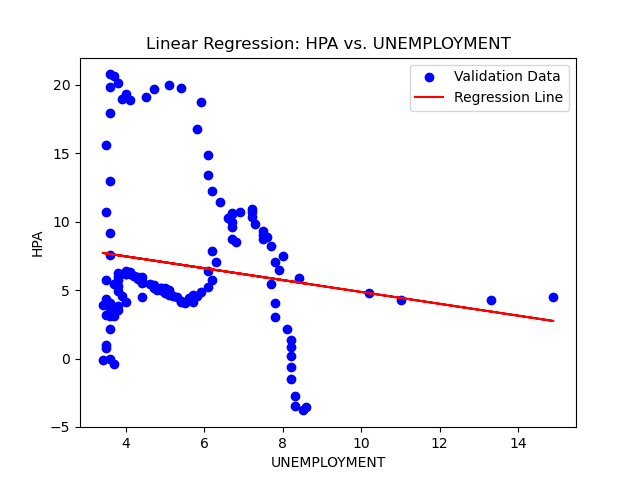
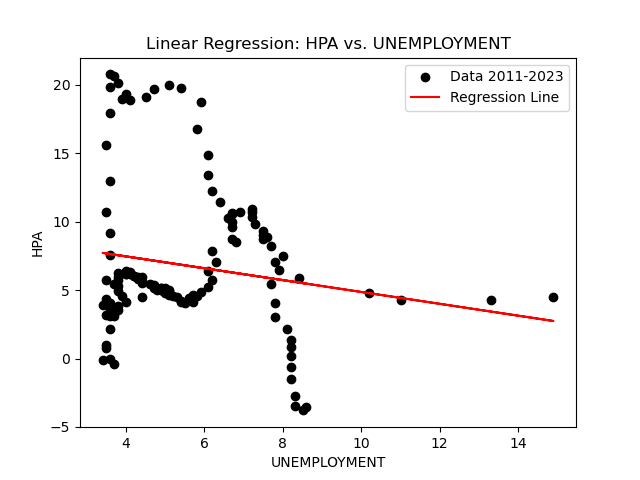
linreg by era

diff --git a/linreg.py b/linreg.py
@@ -20,7 +20,7 @@ def linreg(x, y):
     return mse, model.coef_, model.intercept_
 
 def visualize_all(x, y, coeff, intercept, var, prefix):
-    plt.scatter(x, y, color='blue', label='Validation Data')
+    plt.scatter(x, y, color='black', label='Data 2011-2023')
     plt.plot(x, coeff[0] * x + intercept, color='red', label='Regression Line')
     plt.title('Linear Regression: HPA vs. ' + var)
     plt.xlabel(var)
@@ -30,27 +30,28 @@ def visualize_all(x, y, coeff, intercept, var, prefix):
     plt.clf()
 
 def visualize_eras(x, y, dataset_years_df, var, prefix):
-    eras = [[dataset_years_df['2010-2020'][var], dataset_years_df['2010-2020']["HPA_PC"]],
-            [dataset_years_df['2021'][var], dataset_years_df['2021']["HPA_PC"]],
-            [dataset_years_df['2022'][var], dataset_years_df['2022']["HPA_PC"]],
-            [dataset_years_df['2023'][var], dataset_years_df['2023']["HPA_PC"]]]
+    eras = [[dataset_years_df['Era 1'][var], dataset_years_df['Era 1']["HPA_PC"]],
+            [dataset_years_df['Era 2'][var], dataset_years_df['Era 2']["HPA_PC"]],
+            [dataset_years_df['Era 3'][var], dataset_years_df['Era 3']["HPA_PC"]],
+            [dataset_years_df['Era 4'][var], dataset_years_df['Era 4']["HPA_PC"]],
+            [dataset_years_df['Era 5'][var], dataset_years_df['Era 5']["HPA_PC"]]]
     
-    plt.scatter(eras[0][0], eras[0][1], color='gold', label='2011-2020')
-    print(eras[1][0])
-    print(eras[1][1])
-    plt.scatter(eras[1][0], eras[1][1], color='green', label='2021')
-    plt.scatter(eras[2][0], eras[2][1], color='blue', label='2022')
-    plt.scatter(eras[3][0], eras[3][1], color='purple', label='2023')
+    plt.scatter(eras[0][0], eras[0][1], color='gold', label='01/2011 - 12/2013')
+    plt.scatter(eras[1][0], eras[1][1], color='yellowgreen', label='01/2014 - 03/2020')
+    plt.scatter(eras[2][0], eras[2][1], color='green', label='04/2020 - 06/2021')
+    plt.scatter(eras[3][0], eras[3][1], color='blue', label='07/2021 - 06/2022')
+    plt.scatter(eras[4][0], eras[4][1], color='purple', label='07/2022 - 06/2023')
 
-    colors = ['gold', 'green', 'blue', 'purple']
-    years = ['\'10-\'20','\'21','\'22','\'23']
-    for i in range(0, 4):
+    colors = ['gold', 'yellowgreen', 'green', 'blue', 'purple']
+    years = ['01/2011 - 12/2013', '01/2014 - 03/2020', '04/2020 - 06/2021', '07/2021 - 06/2022', '07/2022 - 06/2023']
+    for i in range(0, 5):
         _, coeff, intercept = linreg(eras[i][0], eras[i][1])
-        plt.plot(x, coeff[0] * x + intercept, color=colors[i], label=years[i] + ' Regression Line')
+        plt.plot(x, coeff[0] * x + intercept, color=colors[i], label=years[i] + ' RL')
     
     plt.title('Linear Regression: HPA vs. ' + var)
     plt.xlabel(var)
     plt.ylabel("HPA")
+    plt.ylim(-5, 22)
     plt.legend()
     plt.savefig(prefix + var)
     plt.clf()

diff --git a/dataset.py b/dataset.py
@@ -163,15 +163,14 @@ def condenseDataset(original):
 
 def splitByEra(dataset):
     dataset['DATE'] = pd.to_datetime(dataset['DATE'])
-    dataset['YEAR'] = dataset['DATE'].dt.year
-    dataset_years = {
-        '2010-2020': dataset[dataset['YEAR'].between(2010, 2020)],
-        '2021': dataset[dataset['YEAR'] == 2021],
-        '2022': dataset[dataset['YEAR'] == 2022],
-        '2023': dataset[dataset['YEAR'] == 2023],
-    }
-    return dataset_years
-    # new_datasets = {year: group for year, group in dataset.groupby('YEAR')}
+
+    dataset_dates = {
+        'Era 1': dataset[(dataset['DATE'] >= '2011-01-01') & (dataset['DATE'] <= '2013-12-31')],
+        'Era 2': dataset[(dataset['DATE'] >= '2014-01-01') & (dataset['DATE'] <= '2020-03-31')],
+        'Era 3': dataset[(dataset['DATE'] >= '2020-04-01') & (dataset['DATE'] <= '2021-06-30')],
+        'Era 4': dataset[(dataset['DATE'] >= '2021-07-01') & (dataset['DATE'] <= '2022-06-30')],
+        'Era 5': dataset[(dataset['DATE'] >= '2022-07-01') & (dataset['DATE'] <= '2023-06-30')]}
+    return dataset_dates
 
 
 def main():
